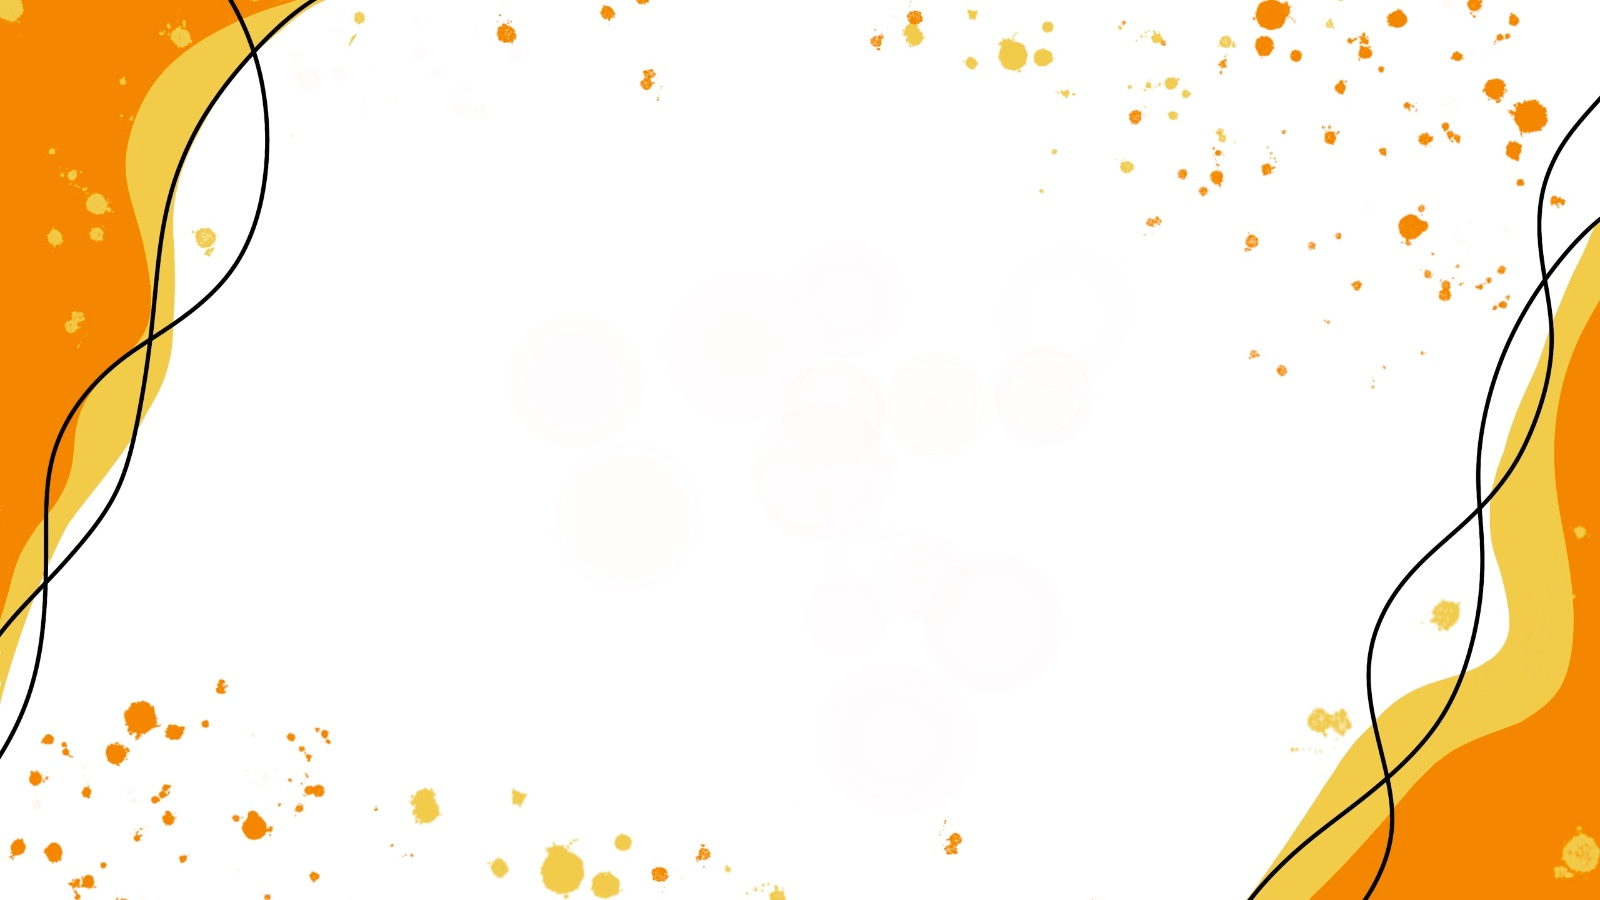
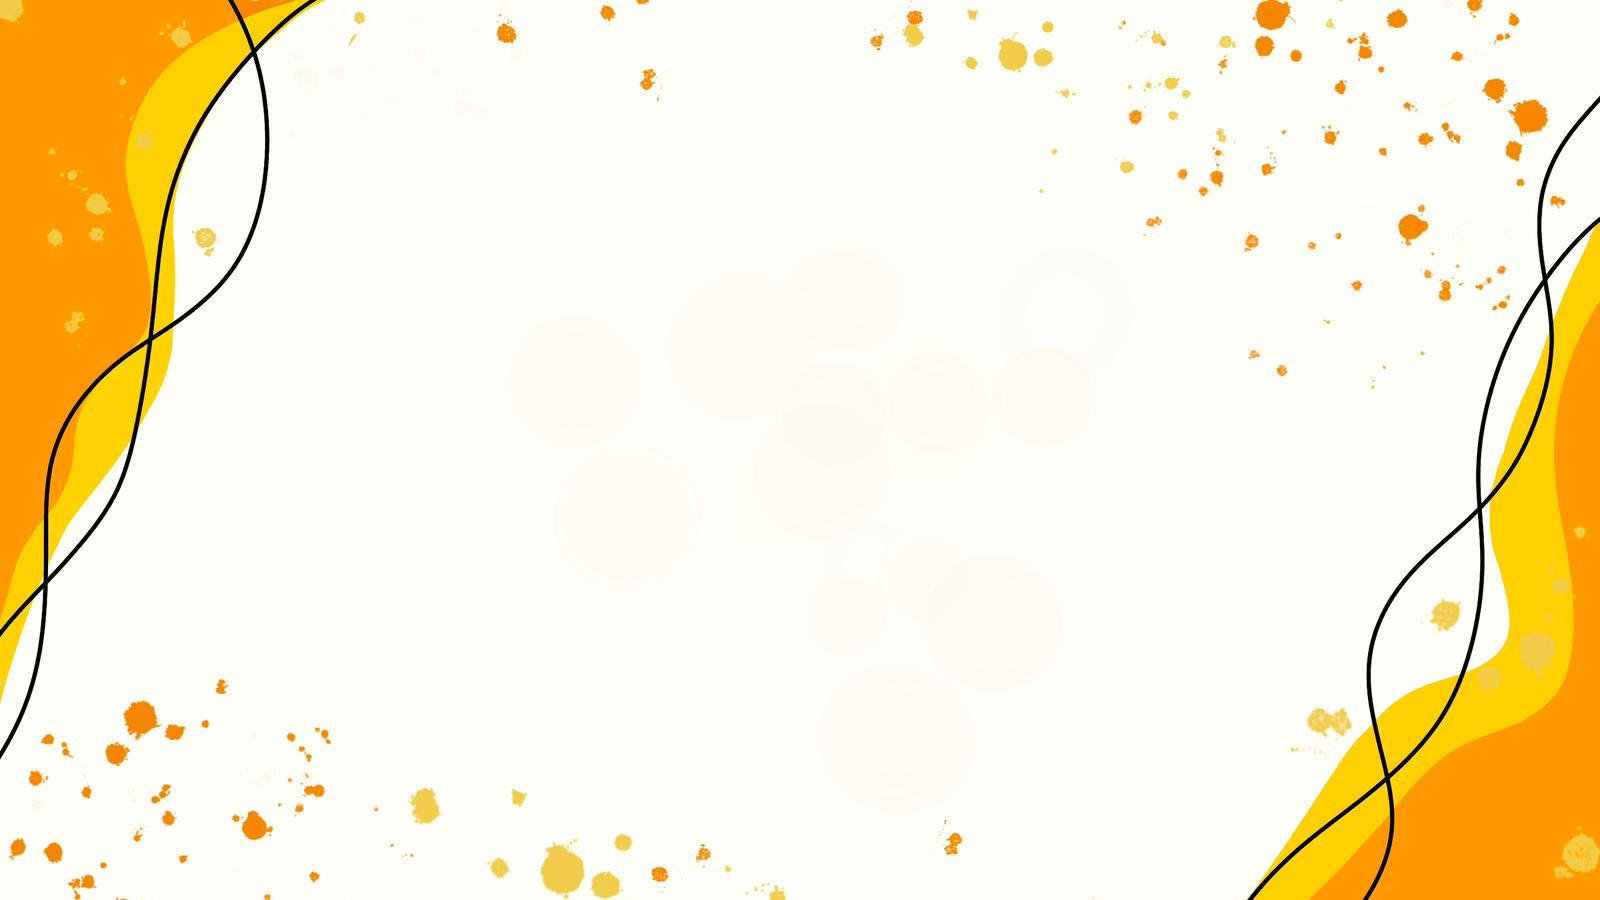
[TASK] adjust bg overlay color

Changed region(s): [[0.7812, 0.2489, 1.0, 1.0], [0.0, 0.0, 0.2188, 0.7778]]

diff --git a/src/Pages/MainPage.tsx b/src/Pages/MainPage.tsx
@@ -16,7 +16,7 @@ export default function App(): React.ReactElement {
       }}
     >
       {/* Dark overlay */}
-      <div className="absolute inset-0 bg-black bg-opacity-5 pointer-events-none"></div>
+      <div className="absolute inset-0 bg-black bg-opacity-0 pointer-events-none"></div>
 
       {/* Content with higher z-index */}
       <div className="relative z-10 flex flex-col min-h-screen">
